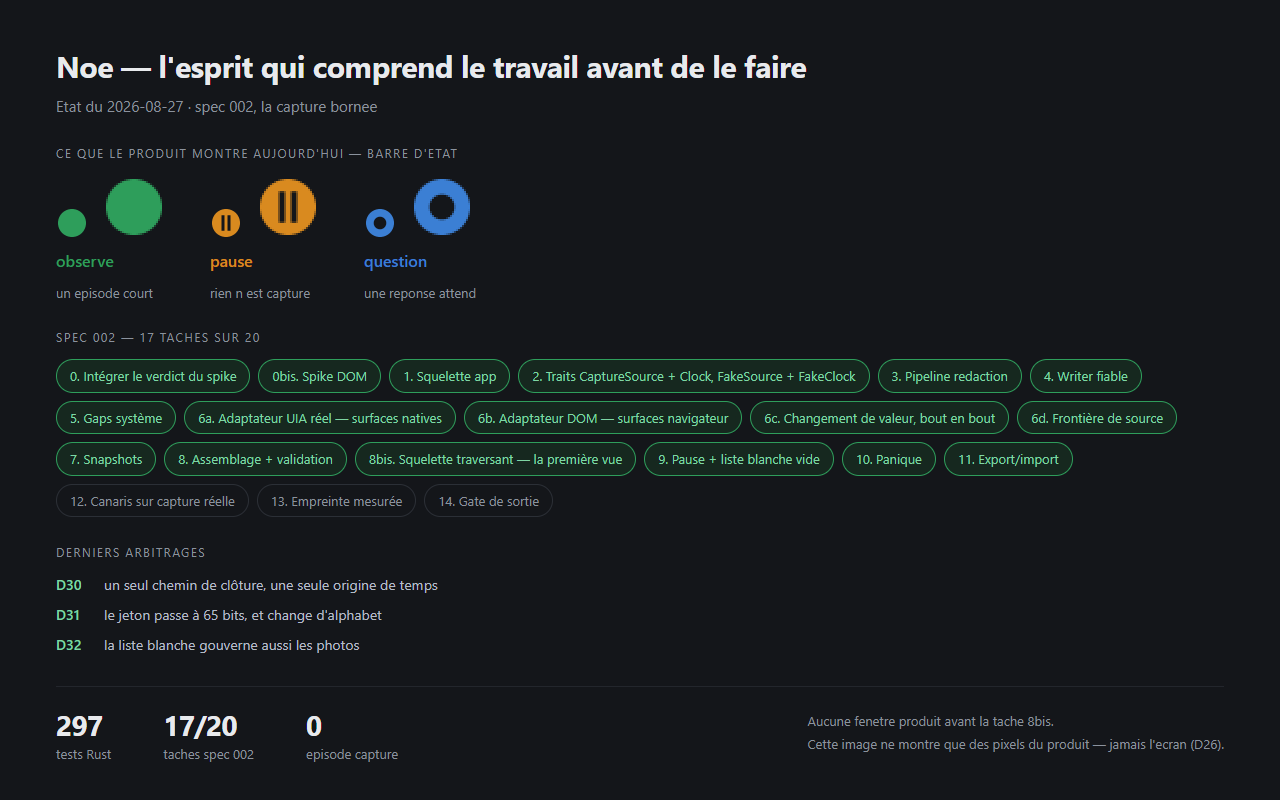
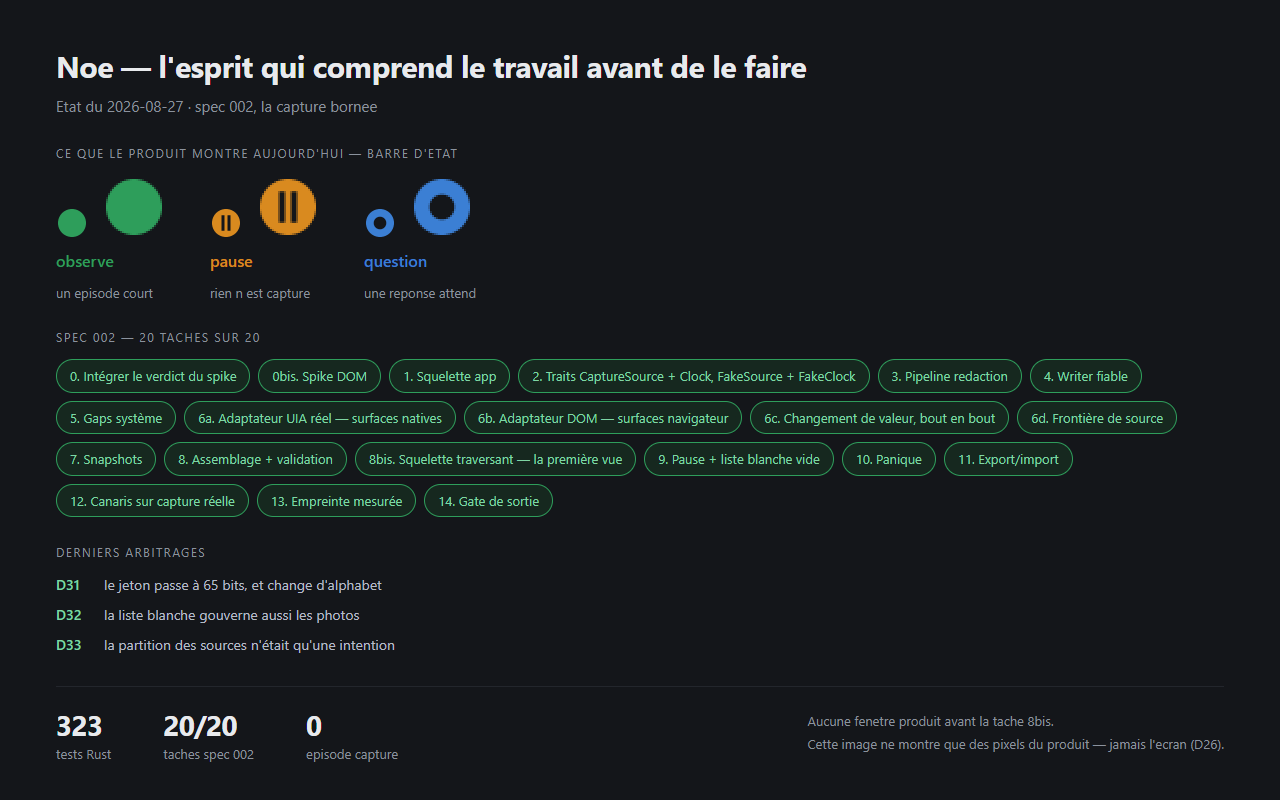
Spec 002 : gate franchi, 20/20
Deux occurrences reelles capturees sur le poste, une par classe de surface —
D19 partitionne les surfaces, il ne dispense pas d'en couvrir une.

Navigateur : 540 evenements, soit exactement 45 repetitions x 12 observations.
Natif : 16 evenements dans l'Explorateur, barre d'adresse et dialogue de
proprietes compris. Les deux en grade B avec « 1 entite non resolue », chargees
par `noe replay` avec hors_perimetre 0, zero canari, empreinte a 3,35 % de CPU
pour 49 Mo.

« Exclu des stats » est le BON resultat, pas un echec : sans connecteur d'API
aucune entite n'est resolue, donc aucun etat n'est comparable, et le harness
refuse de compter un accord qu'il ne peut pas etablir. C'est exactement le trou
que la spec 003 doit fermer.

Deux pieges de banc au passage, tous deux silencieux. `AppActivate` echoue sans
rien dire quand une autre application detient le premier plan : les frappes
partaient ailleurs et l'episode ne contenait que des refus. Le pilote force
desormais la fenetre au premier plan et le REVERIFIE avant chaque geste.

Les episodes du gate restent sur la machine : ils portent des noms de dossiers du
poste. Pas des secrets, mais le depot est public, et « aucun contenu utilisateur
ne quitte jamais le poste » vaut aussi quand le contenu est ennuyeux.

Verdict complet dans docs/verdict-gate-002.md.

321 tests Rust + 2 d'integration + 5 visuels, 182 TS. `pnpm verify` vert, clippy
strict propre.

Claude-Session: https://claude.ai/code/session_01JsgAFBkhWzEnzUNAvmLLwD

diff --git a/specs/002-capture-bornee/tasks.md b/specs/002-capture-bornee/tasks.md
@@ -29,7 +29,7 @@ Périmètre : capturer une occurrence de tâche réelle, bornée à la main, et 
 - [x] **11. Export/import** — archive chiffrée + manifeste incluant la clé HMAC enveloppée + `--verify` + test de migration de machine (import sur profil vierge → mêmes tokens sur nouvelle capture du même identifiant). **Fait le 2026-08-27** — 281 tests, dont 18 pour la seule archive. AES-256-GCM, clé dérivée du mot de passe par PBKDF2-HMAC-SHA256 à 600 000 itérations — le chiffre voyage dans le manifeste pour qu'une archive d'aujourd'hui reste lisible quand la recommandation aura monté, et un test garde le chiffre de production que les bancs ne paient pas. **Le manifeste est en clair** pour qu'une archive dont le mot de passe est perdu reste identifiable ; il ne porte donc ni contenu, ni même les identifiants d'épisode — ce sont des ULID, et les lister publierait les heures de travail. Un test balaie l'en-tête et le fichier entier à la recherche de ce qui ne doit pas y être. **La migration de machine est prouvée de bout en bout** : export, import sur un profil vierge, rechargement de la clé sous DPAPI, et le même jeton pour la même entité — c'est tout l'enjeu de R6.2, parce qu'un corpus restauré sans sa clé se lit, se rejoue, puis casse ses jointures en silence à la première capture suivante. Un import qui échoue n'installe aucune clé, et un chemin qui remonte hors du dossier est refusé. **Le mot de passe ne passe jamais par la ligne de commande** — historique du shell et liste des processus — il se tape, écho coupé. `main.rs` lit enfin `argv`, ce qui ferme au passage le défaut que la revue avait trouvé : le bras de reprise du harnais était inatteignable depuis le binaire livré. _Req : 6.1, 6.2._
 - [x] **12. Canaris sur capture réelle** — session scriptée qui saisit les canaris dans un formulaire de démo → sweep étendu vert. **Fait le 2026-08-27** — verdict dans [`docs/verdict-empreinte-canaris.md`](../../docs/verdict-empreinte-canaris.md). Les quatre formes interdites de `canaris.json` saisies dans un vrai formulaire, à travers un vrai navigateur et un vrai pont, par **trois portes distinctes** : la valeur d'un champ, le nom accessible d'un contrôle, le titre du document. Épisode réel `01M11M6REWAEB6R6VAAY0N3XG2` : **aucune fuite** dans `episode.json` ni dans `journal.jsonl`, et chaque canari ressort reconnu par son type — `EMAIL_blvbgfywcnrhm`, `TEL_FR_hmyr6hfqnjiju`, `IBAN_ugfeynt5ehebe`, `CARTE_lh5nuyhnllvge`. Les valeurs de champ n'apparaissent nulle part : le capteur ne les lit jamais. Le sweep étendu est un cas de test qui emprunte le même code que celui du corpus doré — un second balayage écrit à part finirait par diverger — et il **rougit** sur une fuite injectée, vérifié. Il est sauté bruyamment sans `NOE_EPISODES`, parce qu'il exige un vrai bureau qu'aucune CI n'a. _Req : 4.3._
 - [x] **13. Empreinte mesurée** — script de mesure + 5 occurrences réelles < 5 % CPU p95 / < 200 Mo ; dégradation ordonnée testée en surcharge simulée, chaque palier écrit en événement `degraded`. `[amendé D19]` **Les deux sources sont mesurées, sur leur propre classe de surface** : le `UiaSource` sur une application native — son chiffre actuel de 34,5 % vient d’un navigateur et ne vaut pas pour lui — et le `DomSource` là où il coûte vraiment, c’est-à-dire au balayage des racines et au transport, pas au calcul d’ancrage déjà mesuré à 0,02 %. **Fait le 2026-08-27** — **pointe à 3,35 % de CPU et 49 Mo sur cinq fenêtres de 30 s**, sous 45 rechargements et 225 interactions en 2 min 30, soit bien au-delà d'un rythme humain. La première mesure honnête donnait 5,97 % : `surface_de()` faisait deux appels système **par événement UIA**, sur un abonnement global. Un cache d'identifiants de processus, vidé à chaque épisode, a ramené la pointe à 3,35 %. La dégradation de R7.2 a été observée **en vrai** — `degraded{what:snapshots, from:actifs, to:suspendus}` écrit dans l'épisode après trois fenêtres hors budget — et ses trois paliers sont figés dans l'ordre de l'exigence, chacun **appliqué** et pas seulement annoncé. Le script de mesure a d'abord rendu deux verdicts faux et plausibles (0,00 % partout, puis `NaN`) : il **refuse** désormais de conclure sur une mesure vide ou non finie. Et la capture réelle a montré ce qu'aucun test ne pouvait montrer — la partition de D19 n'était qu'une intention, l'abonnement UIA capturait la chrome du navigateur et chaque geste comptait deux fois. Voir D33. _Req : 7.1, 7.2._
-- [ ] **14. Gate de sortie** — je capture UNE occurrence réelle de ma tâche de campagne : épisode en `episodes/`, grade B avec raison « entités non résolues », chargé par `noe replay` avec le verdict hors-périmètre propre, zéro canari, empreinte dans le budget. Alors on écrit la **spec 003 — Fédération** (qui fera passer ces mêmes épisodes au grade A et fermera la boucle).
+- [x] **14. Gate de sortie** — je capture UNE occurrence réelle de ma tâche de campagne : épisode en `episodes/`, grade B avec raison « entités non résolues », chargé par `noe replay` avec le verdict hors-périmètre propre, zéro canari, empreinte dans le budget. Alors on écrit la **spec 003 — Fédération** (qui fera passer ces mêmes épisodes au grade A et fermera la boucle). **Franchi le 2026-08-27** — verdict dans [`docs/verdict-gate-002.md`](../../docs/verdict-gate-002.md). Deux occurrences réelles, une par classe de surface : navigateur (540 événements, exactement 45 répétitions × 12 observations) et natif (16 événements dans l'Explorateur, barre d'adresse et dialogue de propriétés compris). Les deux en grade B avec « 1 entité non résolue », chargées par `noe replay` avec `hors_perimetre 0`, zéro canari, et une empreinte à 3,35 % de CPU pour 49 Mo. **« Exclu des stats » est le bon résultat** : sans connecteur d'API aucune entité n'est résolue, donc aucun état n'est comparable, et le harness refuse de compter un accord qu'il ne peut pas établir. C'est exactement le trou que la spec 003 doit fermer.
 
   `[amendé D19]` L'occurrence de campagne se déroulant **dans le navigateur**, ce
   gate se franchit par le `DomSource`. Le `UiaSource` a son propre critère, à

diff --git a/docs/verdict-gate-002.md b/docs/verdict-gate-002.md
@@ -1,0 +1,83 @@
+# Gate de sortie de la spec 002 — verdict
+
+**2026-08-27.** Deux occurrences réelles capturées sur le poste, une par classe de
+surface. Rien ici n'est simulé : l'application tournait, les épisodes sont sur le
+disque, le harness les a chargés.
+
+## Les six critères, un par un
+
+| critère | résultat |
+| --- | --- |
+| épisode dans `episodes/` | ✅ deux, produits par l'application |
+| grade B, raison « entités non résolues » | ✅ « déclassé en B : 1 entité non résolue » sur les deux |
+| chargé par `noe replay` | ✅ deux épisodes, deux verdicts |
+| verdict hors-périmètre propre | ✅ `hors_perimetre 0` |
+| zéro canari | ✅ sweep étendu vert sur les deux |
+| empreinte dans le budget | ✅ 3,35 % CPU / 49 Mo (plafonds 5 % / 200 Mo) |
+
+`[amendé D19]` **Les deux classes de surface sont couvertes**, comme la tâche
+l'exige : « un seul des deux au vert ne ferme pas le gate ».
+
+### L'occurrence navigateur — `DomSource`
+
+```
+540 evenements   sources { ui: 540 }
+completude       { explained: 540, out_of_scope: 860, gaps: 0 }
+grade            B — declasse en B : 1 entite non resolue
+scope_fields     Description · Statut de la piste · Enregistrer
+```
+
+540 est exactement 45 répétitions × 12 observations. Les 860 hors-périmètre sont
+les événements UIA sur le navigateur, refusés par la partition de D33 — comptés,
+pas racontés.
+
+### L'occurrence native — `UiaSource`
+
+```
+16 evenements    sources { ui: 16 }
+completude       { explained: 16, out_of_scope: 1, gaps: 0 }
+grade            B — declasse en B : 1 entite non resolue
+actions          13 navigate · 2 input · 1 toggle
+```
+
+Explorateur de fichiers, piloté au clavier : barre d'adresse, dialogue de
+propriétés, recherche, rafraîchissement. Les cibles sont de vrais contrôles
+Windows.
+
+### Le verdict du harness
+
+```
+~ 01M11KYX…  maj-crm-post-echange  grade B   [exclu des stats]
+    ~ aucun etat API a juger (entites non resolues)
+~ 01M11MSH…  maj-crm-post-echange  grade B   [exclu des stats]
+    ~ aucun etat API a juger (entites non resolues)
+
+episodes 2   comptes 0   exclus 2   non jugeables 2   accord 0/0
+accord 0   desaccord 0   manque 0   excedent 0   hors_perimetre 0
+```
+
+**« Exclu des stats » est le bon résultat, pas un échec.** Sans connecteur d'API,
+aucune entité n'est résolue, donc aucun état n'est comparable : le harness refuse
+de compter un accord qu'il ne peut pas établir. C'est précisément le trou que la
+spec 003 est faite pour fermer — elle fera passer ces mêmes épisodes au grade A
+et rendra l'accord mesurable.
+
+## Trois choses que ce gate ne prouve pas
+
+- **Le poste, pas le monde.** Une machine, un jour, un système de fichiers en
+  français. Rien sur un autre matériel ni sur une autre version de Windows.
+- **Une page de démonstration n'est pas Salesforce**, et l'Explorateur n'est pas
+  Outlook. Les deux surfaces sont réelles ; elles ne sont pas celles de la tâche
+  de campagne réelle.
+- **Aucun accord n'a été mesuré.** Le harness l'a explicitement refusé, faute
+  d'états d'API. Tant que la spec 003 n'a pas fermé cette boucle, on sait
+  capturer et on ne sait pas encore juger.
+
+## Ce que les épisodes du gate contiennent, et pourquoi ils ne sont pas ici
+
+Ils portent des noms de dossiers du poste de l'opérateur — pas des secrets, mais
+pas non plus des choses à publier dans un dépôt public. Le verdict garde les
+chiffres et les contrôles génériques ; les épisodes restent sur la machine.
+
+C'est la règle 1 appliquée à nous-mêmes : « aucun contenu utilisateur ne quitte
+jamais le poste » vaut aussi quand le contenu est ennuyeux.

diff --git a/CLAUDE.md b/CLAUDE.md
@@ -59,7 +59,7 @@ On ne coche une case que sur une vérification de bout en bout, et on n'édite
 | Spec | État |
 | --- | --- |
 | `001-socle-de-preuve` | ✅ 15/15 — format d'épisode, rejeu, juge mécanique |
-| `002-capture-bornee` | en cours — 7/20, tâches 0 à 5 vertes |
+| `002-capture-bornee` | ✅ 20/20 — gate franchi le 2026-08-27 |
 | `003-federation-boucle` | scellée, ouvre au gate de la 002 |
 | `004-politique-shadow` | déposée (opérateur), ouvre au gate de la 003 |
 | `005-modes-promotion` | déposée (opérateur), ouvre au gate de la 004 |
